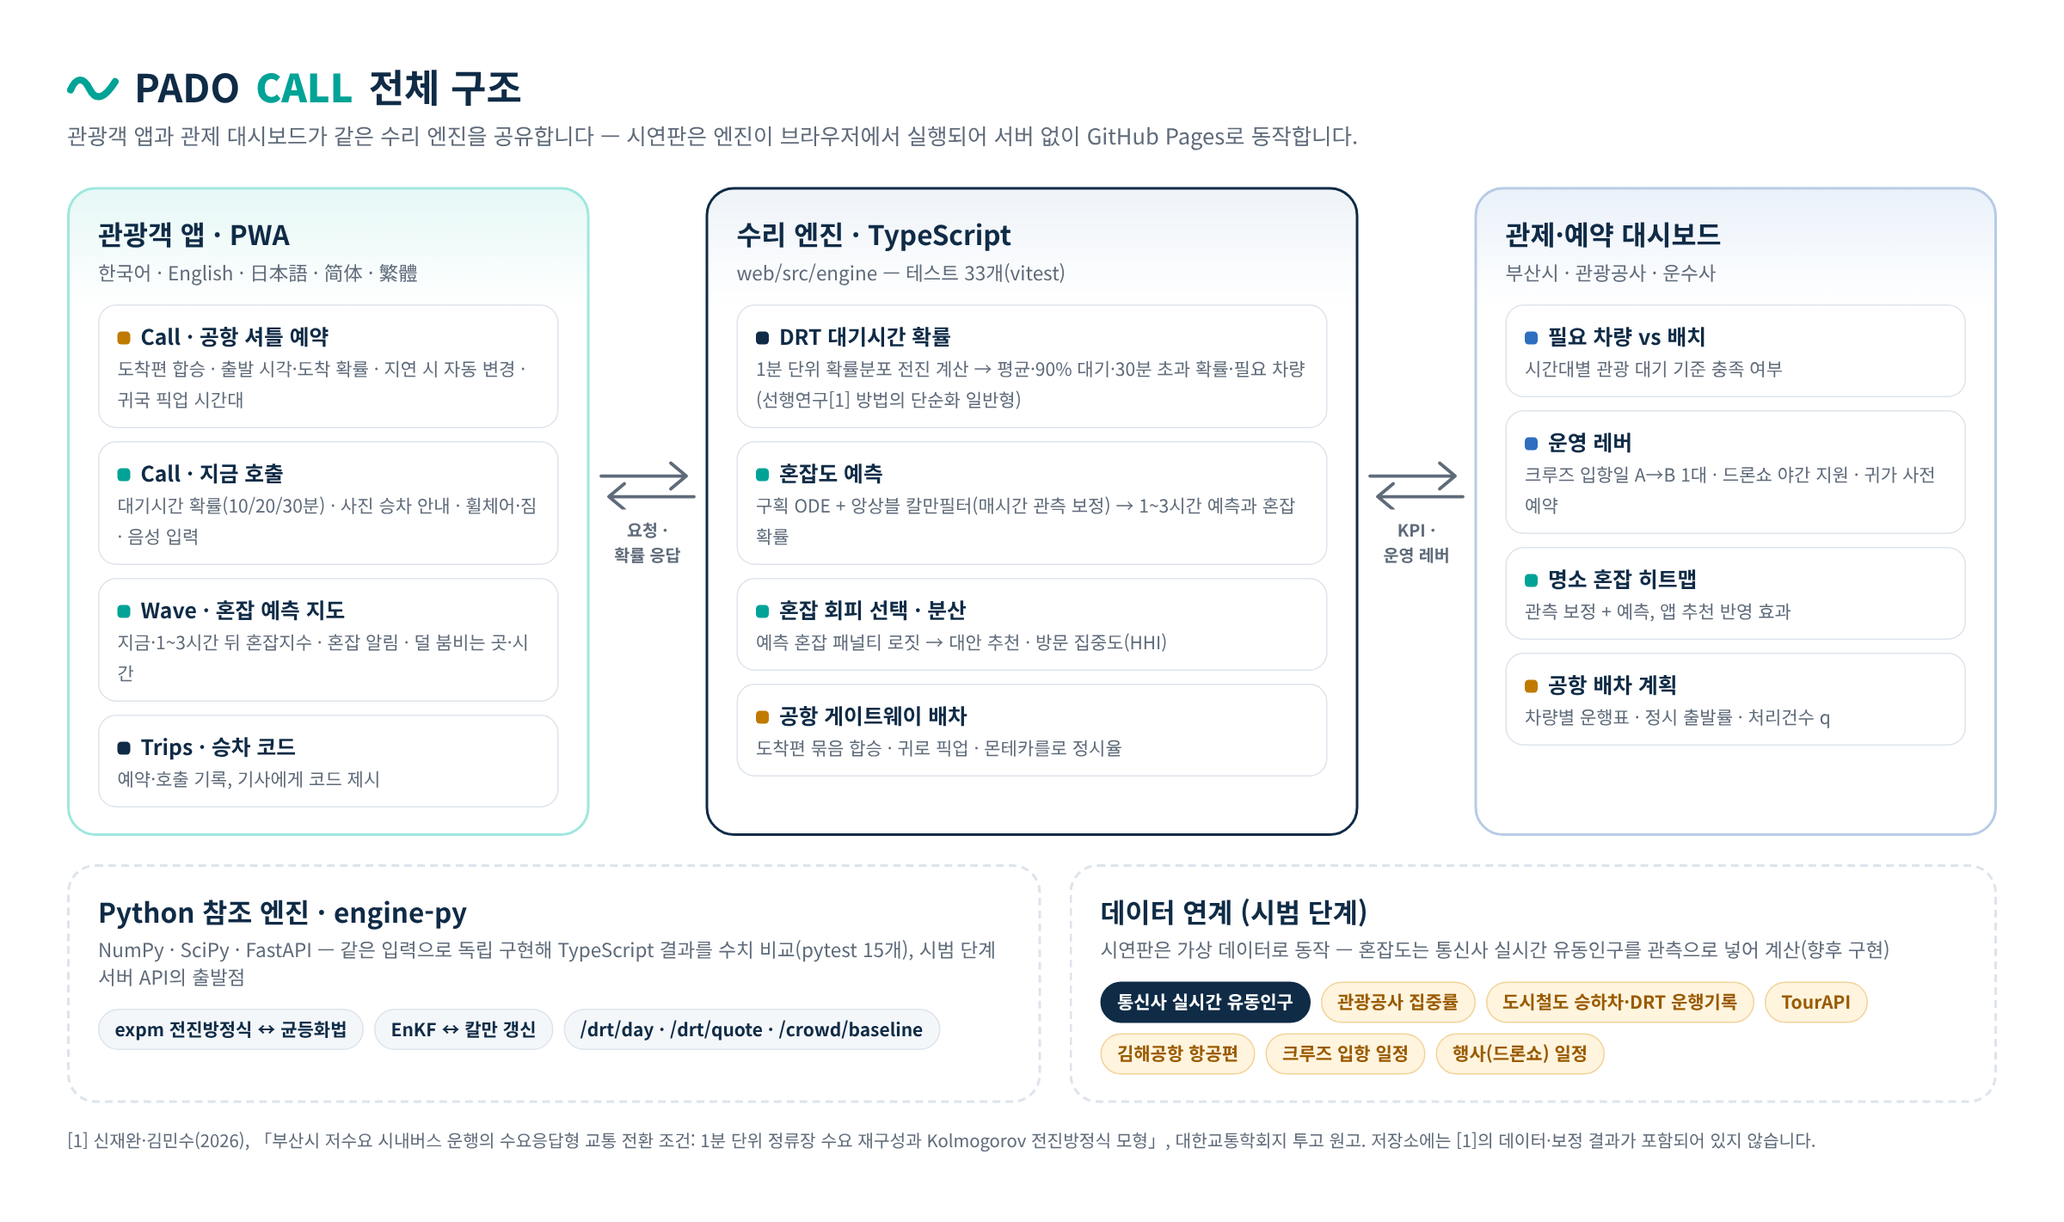
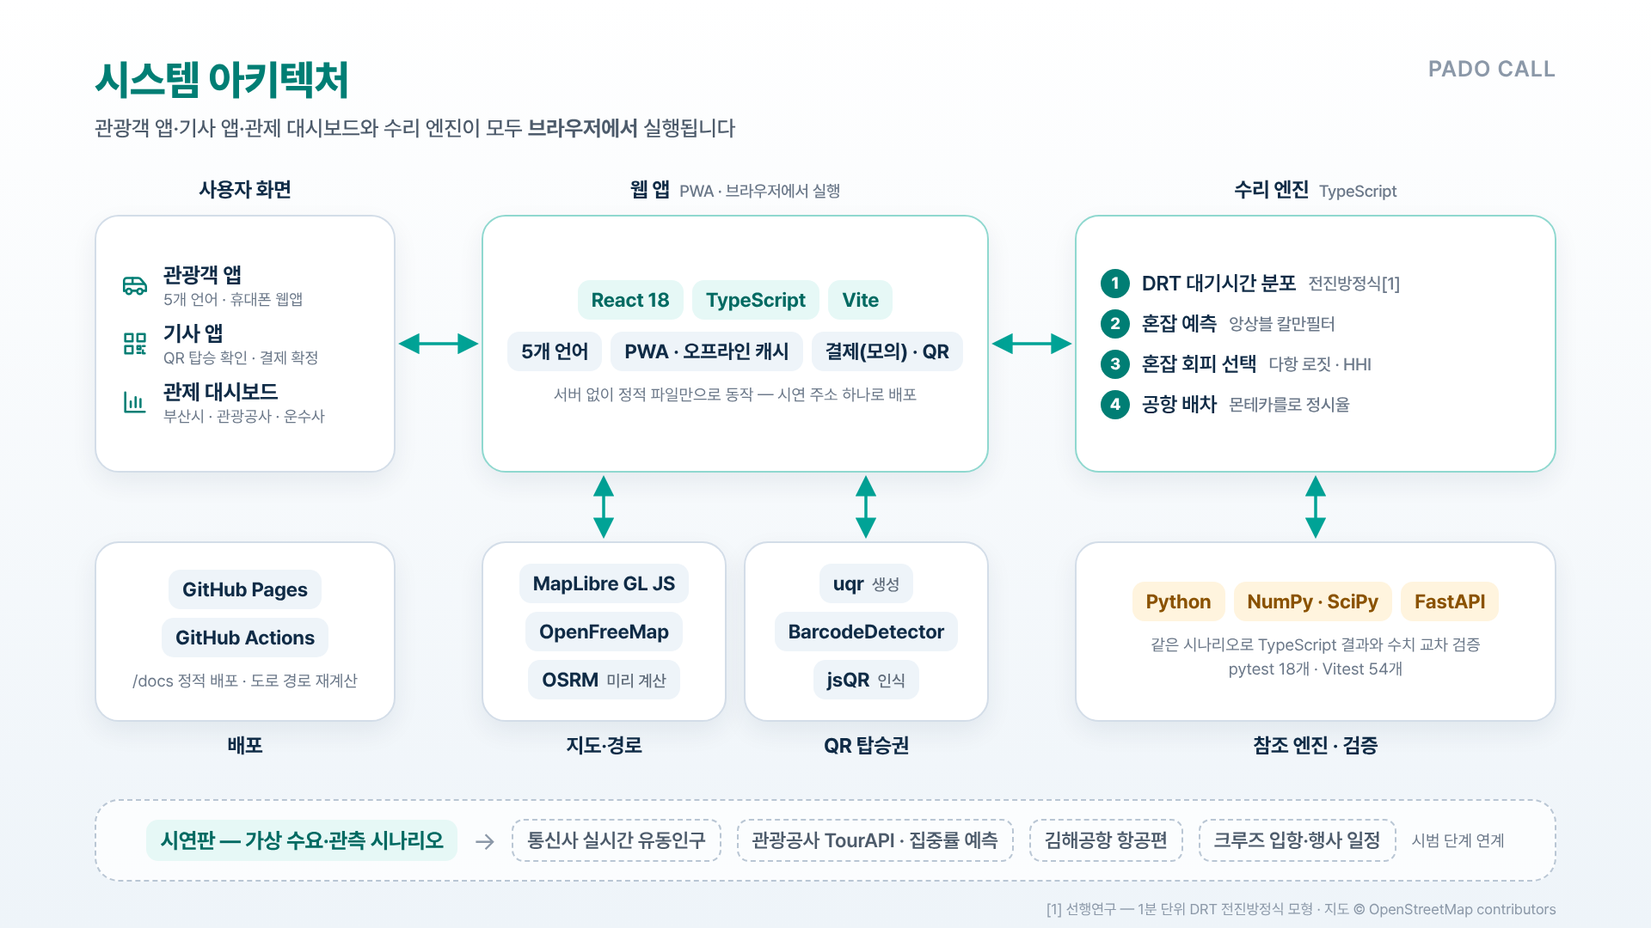
README 개편: 슬라이드형 이미지로 구조·시연·핵심 기능·구현 코드 정리
- 표지, 전체 개발 구조(시스템 아키텍처), 시연 영상(GIF), 핵심 기능 5장, 주요 구현 코드 3장, 향후 구현 계획(통신사 유동인구) 이미지
- 화면은 배포된 시연판을 실제 지도로 캡처
- 실행 방법·시연 팁·폴더 구조는 접어서 정리, 데이터·인용 고지는 유지
- 사용하지 않는 이전 README 이미지 정리

Claude-Session: https://claude.ai/code/session_01WXTcA6Tu8TFvNnyQNQQHif

diff --git a/README.md b/README.md
@@ -1,163 +1,120 @@
 # 파도콜 PADO CALL — 공항부터 명소까지, 내 언어로 부르면 오는 관광셔틀
-
 ## 2026 글로컬 부산관광 트래블톤 출품작
 #### Track 4 · 관광 인프라
 
+![파도콜 PADO CALL](./image/cover.jpg)
+
+---
 ### 개발 기간
 - 기획: 2026.10 (아이디어 계획서)
 - MVP: 2026.10 – 2026.11 (본선 시연용)
 
-## 데모
-
-**웹 데모: https://jaewansh.github.io/pado-call/** — PC와 휴대폰 브라우저에서 바로 열립니다. 올리는 방법과 확인 방법은 [GUIDE_GITHUB.md](GUIDE_GITHUB.md)에 정리했습니다.
-
-| 화면 | 바로가기 |
-|---|---|
-| 관광객 앱 · 공항 셔틀 / 지금 호출 | [jaewansh.github.io/pado-call/#/call](https://jaewansh.github.io/pado-call/#/call) |
-| 관광객 앱 · 혼잡 예측 지도 | [#/wave](https://jaewansh.github.io/pado-call/#/wave) |
-| 관광객 앱 · 내 여정(QR 탑승권) | [#/trips](https://jaewansh.github.io/pado-call/#/trips) |
-| 기사 앱 · QR 탑승 확인 (한국어) | [#/driver](https://jaewansh.github.io/pado-call/#/driver) |
-| 관제·예약 대시보드 (한국어) | [#/control](https://jaewansh.github.io/pado-call/#/control) |
-| 수리모형 설명 | [#/model](https://jaewansh.github.io/pado-call/#/model) |
-
-- 언어·시나리오를 주소로 지정할 수 있습니다: [`?lang=en#/call`](https://jaewansh.github.io/pado-call/?lang=en#/call), [`?lang=ja&day=cruise&t=1300#/wave`](https://jaewansh.github.io/pado-call/?lang=ja&day=cruise&t=1300#/wave) (lang = ko · en · ja · zhHans · zhHant, day = weekday · weekend · cruise · drone, t = 시각 HHMM)
-- 휴대폰 브라우저에서 열고 **홈 화면에 추가**하면 앱처럼 실행됩니다(PWA).
-- 지도는 OpenStreetMap 기반 실제 지도입니다. 발표장 인터넷이 불안정하면 주소에 `?map=schematic`을 붙여 개략도 지도로 시연할 수 있고, 지도를 불러오지 못하면 개략도로 자동 전환됩니다.
-- 모든 수요·예약·관측값은 **시연용 가상 데이터**이며, 계산은 서버 없이 브라우저에서 실행됩니다. 결제는 모의 처리로, 실제 결제가 이뤄지지 않습니다.
+---
 
 ## 프로젝트 개요
 
-부산을 찾는 외국인 개별관광객은 버스·지하철 자체보다 **공항 첫 구간, 언어, 결제, 짐, 마지막 구간**에서 막히고, 그 막힘이 특정 명소 쏠림과 주민 불편으로 번지고 있습니다. 파도콜은 김해공항 게이트웨이(예약 합승)와 두 개의 관광 권역(A 해운대·광안리, B 원도심·영도)을 잇는 **다국어 관광 DRT**입니다. 관광객은 5개 언어로 공항 셔틀을 예약하고, 명소에서 셔틀을 부르면 **몇 분 안에 탈 확률**을 미리 보며, 혼잡 예측 지도로 덜 붐비는 곳과 시간을 고릅니다. 부를 때 해외 카드·간편결제로 **결제(카드 승인)를 마치면 셔틀이 출발**하고, 탑승할 때 **QR 탑승권을 기사 단말기에 찍으면 결제가 확정**됩니다. 관제 대시보드는 같은 수리 엔진으로 시간대별 필요 차량, 크루즈 입항일·드론쇼 같은 행사일의 재배치, 공항 배차 정시율을 보여 줍니다.
+파도콜은 김해공항 게이트웨이(예약 합승)와 두 관광 권역(A 해운대·광안리, B 원도심·영도)을 잇는 **다국어 관광 DRT**입니다.
+외국인 개별관광객이 막히는 공항 첫 구간·언어·결제·짐·마지막 구간을 풀고, 혼잡 예측으로 특정 명소 쏠림을 줄이는 것을 목표로 합니다.
 
-## 전체 구조
+**웹 데모 → https://jaewansh.github.io/pado-call/** — 설치·가입 없이 휴대폰·PC 브라우저에서 바로 실행됩니다 (5개 언어).
 
-![전체 구조](image/architecture.png)
+| 관광객 앱 | 기사 앱 | 관제 대시보드 | 수리모형 |
+|:---:|:---:|:---:|:---:|
+| [공항 셔틀·지금 호출](https://jaewansh.github.io/pado-call/#/call) · [혼잡 지도](https://jaewansh.github.io/pado-call/#/wave) · [내 여정](https://jaewansh.github.io/pado-call/#/trips) | [QR 탑승 확인](https://jaewansh.github.io/pado-call/#/driver) | [관제·예약](https://jaewansh.github.io/pado-call/#/control) | [모형 설명](https://jaewansh.github.io/pado-call/#/model) |
 
-## 시연
+---
 
-![시연](image/demo.gif)
+## 전체 개발 구조
+
+![전체 개발 구조](./image/architecture.png)
+
+## 시연 영상
+
+![시연 영상](./image/demo.gif)
+
+---
 
 ## 핵심 기능
 
-| 공항 셔틀 예약 (English) | 지금 호출 (简体中文) | 혼잡 예측 지도 (日本語) | 내 여정 (한국어) |
-|---|---|---|---|
-| ![공항 셔틀](image/app_call_airport_en.png) | ![지금 호출](image/app_call_ride_zh.png) | ![혼잡 지도](image/app_wave_ja.png) | ![내 여정](image/app_trips_ko.png) |
-| 도착편 합승 · 출발 시각과 숙소 도착 확률(중앙값·90%) · 항공편 지연 시 자동 변경 · 귀국객 숙소 픽업 시간대 | 지금 부르면 10·20·30분 안에 탈 확률 · 90% 대기 · 실제 지도 위 승차·목적지·운행 차량 · 사진 승차 안내 · 휠체어·유아차·짐 · 음성 입력 | 실제 지도 위 지금~3시간 뒤 혼잡지수 · 혼잡 알림 · 오늘 가장 한산한 시간 · 같은 권역의 덜 붐비는 곳 | 1회용 QR 탑승권(크게 보기·예비 코드) · 카드 승인 → 탑승 시 결제 확정 · 운행 상태 · 취소 시 승인 취소 |
+![주요 기능 1 — 공항 셔틀 예약](./image/feature_1_airport.jpg)
+![주요 기능 2 — 지금 호출 · 대기시간 확률](./image/feature_2_ride.jpg)
+![주요 기능 3 — 혼잡 예측 지도](./image/feature_3_wave.jpg)
+![주요 기능 4 — 부를 때 결제 · QR 탑승](./image/feature_4_pay_qr.jpg)
+![주요 기능 5 — 관제·예약 대시보드](./image/feature_5_control.jpg)
 
-> 위 화면은 지도를 불러오지 못할 때 쓰는 개략도 버전입니다. 데모 주소에서는 OpenStreetMap 실제 지도 위에 운행 권역·혼잡도·승차 위치가 표시되고, 지도 글자도 앱 언어(영·일·중)로 바뀝니다.
-
-**관제·예약 대시보드** — 시간대별 배치 차량과 필요 차량, 관광 대기 기준(평균 ≤ 15분, 30분 초과 확률 ≤ 5%), 명소 혼잡 히트맵(관측 보정 + 예측), 공항 게이트웨이 배차표, 앱 추천 반영 시 혼잡 변화. 운영 레버(크루즈 입항일 A→B 1대 — 대형 크루즈가 정박하는 영도 국제크루즈터미널에서 대기, 드론쇼 B→A 야간 지원, 귀가 사전예약 비율)를 바꾸면 모든 지표가 다시 계산됩니다.
-
-![관제 대시보드](image/dashboard.png)
-
-**부를 때 결제 → QR 탑승** — 결제 수단(해외 카드, Apple Pay·Google Pay, 알리페이·위챗페이, 국내 카드·간편결제)을 고르면 카드 승인만 걸어 두고 셔틀이 출발합니다. '내 여정'의 1회용 QR 탑승권을 기사 앱에 찍으면 탑승이 확인되고 결제가 확정됩니다. QR에는 예약 정보와 위·변조 확인값이 들어 있어 통신이 끊겨도 기사 단말기에서 확인되고, 같은 QR은 한 번만 쓸 수 있습니다. 기사 앱은 카메라(브라우저 BarcodeDetector, 없으면 jsQR)·사진·예비 코드로 확인하고, 승객 언어로 인사말과 요청(휠체어·유아차·큰 짐, 항공편)을 보여 줍니다. 같은 브라우저에서 승객 앱과 기사 앱을 나란히 열면 탑승 처리가 승객 화면에 바로 반영됩니다.
-
-| 결제 (日本語) | 기사 앱 · QR 탑승 확인 |
-|---|---|
-| ![결제](image/app_pay_ja.png) | ![기사 앱](image/driver.png) |
-
-## 수리모형
-
-1. **관광 DRT 대기시간 확률** — 권역에 들어온 호출 수의 확률분포를 1분 단위로 앞으로 계산해 대기시간 분포와 시간대별 필요 차량을 구합니다. 모형화 방법은 팀의 선행연구 [1]을 관광 권역용으로 단순화한 일반형이며, 수식과 보정 결과는 [1]을 인용합니다.
-2. **혼잡도 예측** — 명소별 구획 모형과 앙상블 칼만필터(매시간 관측으로 체류 인원과 그날의 유입 배수를 보정). 시연판의 관측은 가상 데이터이며, **향후 통신사 실시간 유동인구**를 관측으로 넣어 혼잡도를 계산합니다(아래 '향후 구현 계획').
-
-$$\frac{dN_a}{dt}=A_a(t)-\frac{N_a(t)}{T_a},\qquad CI_a(t)=\frac{N_a(t)}{K_a}$$
-
-$$\mathbf{x}^{a}_{i}=\mathbf{x}^{f}_{i}+\mathbf{K}\left(\mathbf{y}+\boldsymbol{\epsilon}_i-\mathbf{H}\mathbf{x}^{f}_{i}\right),\qquad \mathbf{K}=\mathbf{P}^{f}\mathbf{H}^{\top}\left(\mathbf{H}\mathbf{P}^{f}\mathbf{H}^{\top}+\mathbf{R}\right)^{-1}$$
-
-3. **혼잡 회피 선택 확률과 분산 효과** — 도착 시점의 예측 혼잡지수를 벌점으로 넣은 다항 로짓, 방문 집중도(HHI)
-
-$$P_u(a\mid t)=\frac{\exp\left(V_{ua}-\theta\,\widehat{CI}_a(t+\Delta)\right)}{\sum_{b}\exp\left(V_{ub}-\theta\,\widehat{CI}_b(t+\Delta)\right)},\qquad \mathrm{HHI}(t)=\sum_{a} s_a(t)^{2}$$
-
-4. **공항 게이트웨이 배차** — 같은 권역 도착객을 묶어 출발, 귀로에 귀국객 숙소 픽업, 이동시간 변동·항공편 지연을 몬테카를로로 뽑아 정시 출발률을 평가합니다.
-
-자세한 설명과 모수 표는 데모의 `#/model` 화면에 있습니다.
-
-## 향후 구현 계획 — 통신사 실시간 유동인구로 혼잡도 계산
-
-현재 시연판은 가상 관측으로 같은 계산 흐름을 보여 줍니다. 시범 운영 단계에서는 다음과 같이 실제 데이터로 바꿉니다.
-
-| 단계 | 내용 |
-|---|---|
-| 관측 데이터 | 통신사(SKT·KT 등)가 비식별 집계한 격자 단위 실시간 유동인구를 제휴로 수신 — 개인 위치는 수집하지 않음 |
-| 명소별 집계 | 명소 영역(폴리곤)과 겹치는 격자 인구를 면적 비율로 합산해 관측값 $y_a(t)$ 생성 |
-| 동화(EnKF) | 관측식 $y_a(t)=c\,N_a(t)+\varepsilon$ — 배율 $c$(통신사 점유율·검출률)는 앙상블 상태에 넣어 함께 추정하거나 시범 초기 현장 계수로 보정, 데이터 갱신마다 1–3시간 예측과 혼잡 확률 재계산 |
-| 보조 데이터 | 관광공사 관광지 집중률 예측(30일, 상대값)·도시철도 역별 승하차 → 유입의 사전분포, 행사·크루즈 일정과 셔틀 하차 인원 → 보조 관측 |
-| 상주 인구 처리 | 혼잡지수(물리적 혼잡)는 전체 인원으로 계산, 관광객 분산 효과 분석에는 같은 시간대의 평소 상주 인구 기준선을 빼서 방문 인구를 따로 추정 — 감천·흰여울처럼 주거지와 겹치는 명소에 필요 |
-| 관측 오차 | 격자 크기와 명소 모양에 따라 명소별 관측 오차 $R$ 값을 다르게 설정 — 흰여울처럼 좁고 긴 명소는 크게 |
-| 추진·비용 | 부산시·관광공사 협의체를 통해 통신사 데이터 제휴 확정, 유상 제휴가 일반적이므로 데이터·API 예산에서 함께 검토 |
+---
 
 ## 기술 스택
 
-| 분류 | 기술 |
-|---|---|
-| 관광객 앱·대시보드 | React 18, TypeScript, Vite, PWA(매니페스트·서비스 워커) |
-| QR 탑승권 | uqr(QR 생성), 브라우저 BarcodeDetector·jsQR(카메라·사진 인식) |
-| 지도 | MapLibre GL JS, OpenFreeMap 벡터 타일(OpenStreetMap 데이터, API 키 불필요), 실제 도로 경로(OSRM으로 미리 계산), 오프라인 개략도 대체 |
-| 수리 엔진 | TypeScript — 브라우저에서 실행 (`web/src/engine`) |
-| 참조 엔진·API | Python, NumPy, SciPy, FastAPI (`engine-py`) |
-| 테스트 | Vitest 54개, pytest 18개(TypeScript 결과와 수치 교차 검증), Playwright 화면·QR 스캔 점검 |
-| 배포 | GitHub Pages — `main` 브랜치의 `/docs` 폴더 |
-| 데이터(시범 단계 연계 예정) | **통신사 실시간 유동인구(혼잡도 관측)**, 관광공사 관광지 집중률 예측, 도시철도 역별 승하차, TourAPI, 김해공항 항공편, 크루즈 입항·행사 일정 |
+| 분야 | 기술 |
+|------|------|
+| Web App | React 18, TypeScript, Vite, PWA |
+| Map | MapLibre GL JS, OpenFreeMap (OpenStreetMap), OSRM 도로 경로 (미리 계산) |
+| Math Engine | TypeScript — 전진방정식 DRT, 앙상블 칼만필터, 다항 로짓, 몬테카를로 |
+| Reference Engine | Python, NumPy, SciPy, FastAPI |
+| QR Boarding | uqr, BarcodeDetector, jsQR |
+| Test | Vitest 54개, pytest 18개 (TypeScript 결과와 수치 교차 검증), Playwright 화면·QR 스캔 점검 |
+| Deploy | GitHub Pages (`/docs`), GitHub Actions |
 
-## 핵심 구현 코드
+---
 
-**① 혼잡도 예측 — 앙상블 칼만필터 분석 단계** ([web/src/engine/crowd.ts](web/src/engine/crowd.ts)) · 매시간 관측으로 명소별 [체류 인원, log 유입 배수]를 보정합니다.
+## 주요 구현 코드
 
-```ts
-export function enkfUpdate(ens: number[][], y: number[], obsSd: number[], rand: () => number): number[][] {
-  const E = ens.length;
-  const d = ens[0].length;
-  const p = y.length;
-  const mean = new Array(d).fill(0);
-  ens.forEach((x) => x.forEach((v, j) => (mean[j] += v / E)));
-  const X = ens.map((x) => x.map((v, j) => v - mean[j]));
-  const PHt = Array.from({ length: d }, () => new Array(p).fill(0));
-  for (let e = 0; e < E; e++) for (let i = 0; i < d; i++) for (let j = 0; j < p; j++) PHt[i][j] += (X[e][i] * X[e][j]) / (E - 1);
-  const HPHt = Array.from({ length: p }, (_, i) => Array.from({ length: p }, (_, j) => PHt[i][j] + (i === j ? obsSd[i] ** 2 : 0)));
-  const innov = ens.map((x) => y.map((yi, j) => yi + obsSd[j] * normal(rand) - x[j]));
-  const S = solve(HPHt, transpose(innov)); // p × E
-  return ens.map((x, e) => x.map((v, i) => v + PHt[i].reduce((s, val, j) => s + val * S[j][e], 0)));
-}
+![대기시간 확률 — 전진방정식](./image/code_1_drt.png)
+![혼잡 예측과 분산 — 앙상블 칼만필터 · 선택 확률](./image/code_2_crowd.png)
+![QR 탑승권 — 부를 때 결제, 탈 때 확정](./image/code_3_qr.png)
+
+---
+
+## 향후 구현 계획
+
+![향후 구현 — 통신사 실시간 유동인구로 혼잡도 계산](./image/roadmap_telecom.png)
+
+---
+
+## 실행 방법
+
+<details>
+<summary><b>웹 앱</b> (Node.js 18 이상)</summary>
+
+```bash
+cd web
+npm install
+npm run dev        # http://localhost:5173 에서 개발 서버
+npm test           # 엔진·탑승권 테스트
+npm run build      # docs/ 폴더 갱신 (GitHub Pages 배포용)
+npm run report     # 시나리오 수치 요약 (권역 q, 필요 차량, 공항 정시율, 혼잡 분산)
+npm run routes     # 도로 경로 다시 계산 (인터넷 필요, 명소를 바꾼 뒤 실행)
 ```
 
-**② 혼잡 회피 선택 확률** ([web/src/engine/choice.ts](web/src/engine/choice.ts)) · 분산 효과를 계산할 때는 효용을 평소 방문 패턴(기본 유입)에 맞춰 보정해, 앱이 혼잡 예측 때문에만 방문을 옮기도록 했습니다.
+지도 위 이동 경로는 명소 쌍마다 미리 계산해 `web/src/data/routes.json`에 넣어 두므로, 시연 중에는 경로 서버에 접속하지 않습니다. 명소를 추가·변경했다면 GitHub의 Actions → **road routes** → Run workflow로 경로 계산과 빌드를 한 번에 다시 할 수 있습니다. 올리는 방법과 확인 방법은 [GUIDE_GITHUB.md](GUIDE_GITHUB.md)에 정리했습니다.
 
-```ts
-export function choiceProbs(V: number[], CI: number[], theta = THETA, avail?: boolean[]): number[] {
-  const u = V.map((v, i) => (avail && !avail[i] ? -Infinity : v - theta * CI[i]));
-  const mx = Math.max(...u);
-  const e = u.map((x) => (x === -Infinity ? 0 : Math.exp(x - mx)));
-  const s = e.reduce((a, b) => a + b, 0);
-  return e.map((x) => (s > 0 ? x / s : 0));
-}
+</details>
 
-// dispersal(): 같은 권역 방문객 중 adoption(20%)만 예측 혼잡을 보고 다시 고름
-const V = sites.map((_, j) => Math.log(Math.max(base(j, t), 1e-9)));
-return (1 - adoption) * base(k, t) + adoption * tot * probsAt(t)[k];
+<details>
+<summary><b>Python 참조 엔진</b> (Python 3.10 이상)</summary>
+
+```bash
+cd engine-py
+pip install -r requirements.txt
+pytest                                  # TypeScript 결과와 교차 검증
+uvicorn padocall.api:app --reload       # http://127.0.0.1:8000/docs 에서 API 확인
 ```
 
-**③ 공항 게이트웨이 — 귀로에 귀국객 태우기** ([web/src/engine/airport.ts](web/src/engine/airport.ts)) · 도착객을 내려 준 차량이 공항으로 돌아오는 길에, 항공편 시간창(출발 2시간 전 도착, 최대 90분 일찍)에 맞는 귀국객만 태웁니다.
+</details>
 
-```ts
-function returnLeg(zone: ZoneId, inZone: number, pending: Booking[], seatsFree: number) {
-  let picks: Booking[] = [];
-  let seats = seatsFree;
-  const cands = pending.filter((b) => b.zone === zone).sort((a, b) => deadlineOf(a) - deadlineOf(b));
-  for (const b of cands) {
-    if (seats < b.pax) continue;
-    const trial = [...picks, b];
-    const back = legBack(inZone, trial);
-    if (trial.every((x) => fits(x, back))) {
-      picks = trial;
-      seats -= b.pax;
-    }
-  }
-  // …
-}
-```
+<details>
+<summary><b>시연 팁</b></summary>
 
-## 폴더 구조
+- 언어·시나리오를 주소로 지정할 수 있습니다: [`?lang=en#/call`](https://jaewansh.github.io/pado-call/?lang=en#/call), [`?lang=ja&day=cruise&t=1300#/wave`](https://jaewansh.github.io/pado-call/?lang=ja&day=cruise&t=1300#/wave) (lang = ko · en · ja · zhHans · zhHant, day = weekday · weekend · cruise · drone, t = 시각 HHMM)
+- 내 여정의 QR 탑승권 아래 **시연: 기사 단말기 화면에서 QR 확인하기**를 누르면 탑승·결제 확정까지 이어서 볼 수 있습니다. 같은 브라우저에서 승객 앱과 기사 앱을 나란히 열면 탑승 처리가 승객 화면에 바로 반영됩니다.
+- 휴대폰 브라우저에서 열고 **홈 화면에 추가**하면 앱처럼 실행됩니다 (PWA).
+- 발표장 인터넷이 불안정하면 주소에 `?map=schematic`을 붙여 개략도 지도로 시연할 수 있고, 지도를 불러오지 못하면 개략도로 자동 전환됩니다.
+
+</details>
+
+<details>
+<summary><b>폴더 구조</b></summary>
 
 ```
 pado-call/
@@ -174,30 +131,7 @@ pado-call/
 └─ GUIDE_GITHUB.md  GitHub 업로드·확인 방법
 ```
 
-## 실행 방법
-
-**웹 앱** (Node.js 18 이상)
-
-```bash
-cd web
-npm install
-npm run dev        # http://localhost:5173 에서 개발 서버
-npm test           # 엔진 테스트
-npm run build      # docs/ 폴더 갱신 (GitHub Pages 배포용)
-npm run report     # 시나리오 수치 요약 (권역 q, 필요 차량, 공항 정시율, 혼잡 분산)
-npm run routes     # 도로 경로 다시 계산 (인터넷 필요, 명소를 바꾼 뒤 실행)
-```
-
-지도 위 이동 경로는 명소 쌍마다 미리 계산해 `web/src/data/routes.json`에 넣어 두므로, 시연 중에는 경로 서버에 접속하지 않습니다. 명소를 추가·변경했다면 GitHub의 Actions → **road routes** → Run workflow로 경로 계산과 빌드를 한 번에 다시 할 수 있습니다.
-
-**Python 참조 엔진** (Python 3.10 이상)
-
-```bash
-cd engine-py
-pip install -r requirements.txt
-pytest                                  # TypeScript 결과와 교차 검증
-uvicorn padocall.api:app --reload       # http://127.0.0.1:8000/docs 에서 API 확인
-```
+</details>
 
 ## 데이터·인용 고지
 
@@ -206,6 +140,8 @@ uvicorn padocall.api:app --reload       # http://127.0.0.1:8000/docs 에서 API 
 - 지도: © OpenStreetMap contributors, © OpenMapTiles, OpenFreeMap.
 - 이동 경로: OSRM 자동차 경로(OpenStreetMap 도로 데이터, ODbL)를 미리 계산해 사용합니다. 셔틀 이동 시간은 이 도로 거리를 권역 평균 속도(시속 18 km)로 나눈 값에 승차 1분을 더한 가정치입니다.
 - [1] 신재완·김민수(2026), 「부산시 저수요 시내버스 운행의 수요응답형 교통 전환 조건: 1분 단위 정류장 수요 재구성과 Kolmogorov 전진방정식 모형」, 대한교통학회지 투고 원고. 이 저장소에는 [1]의 데이터·보정 결과가 포함되어 있지 않습니다.
+
+---
 
 ## 팀원
 
